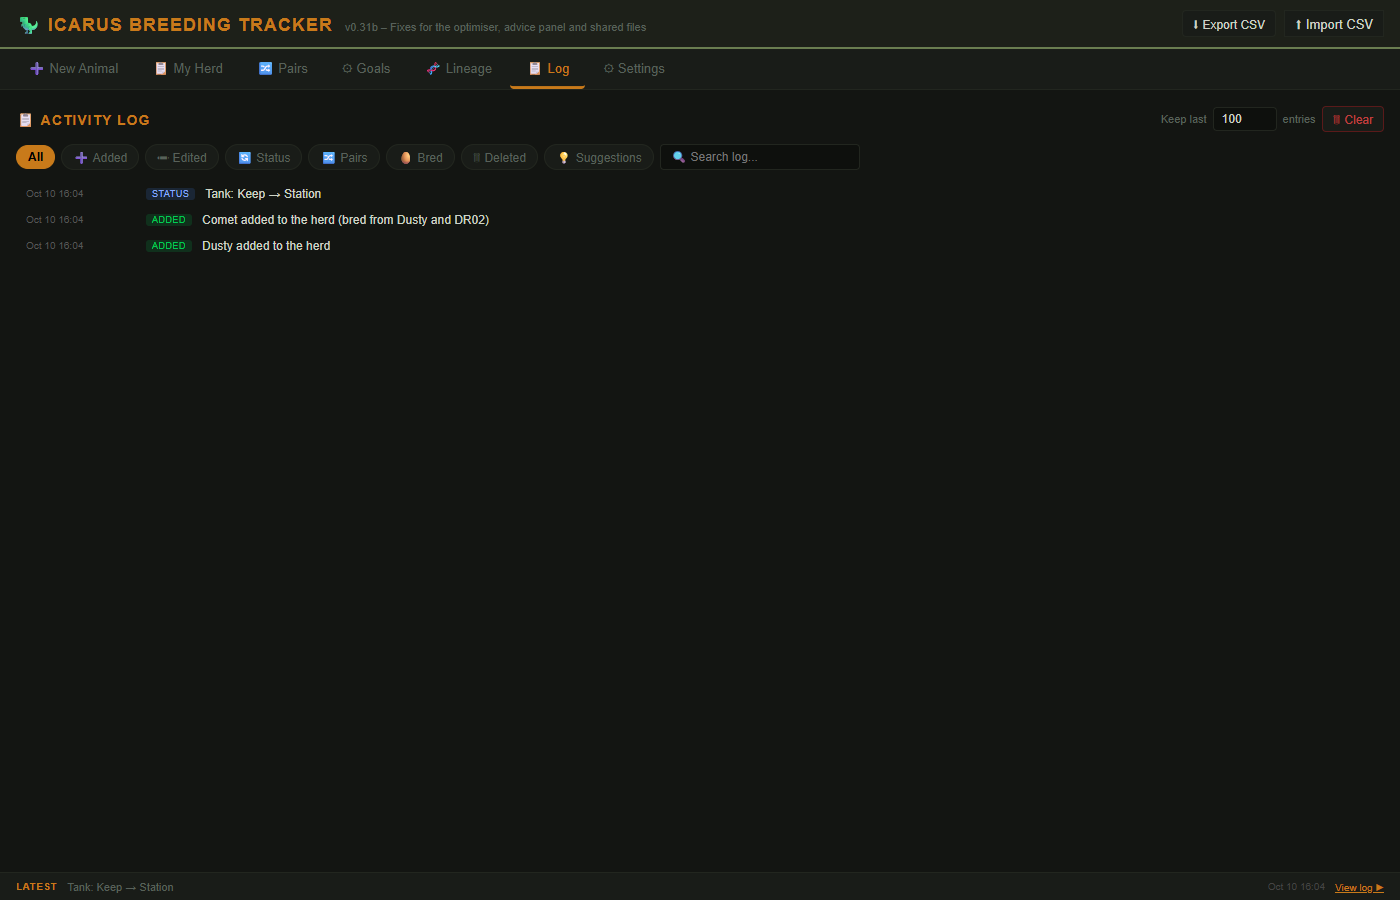
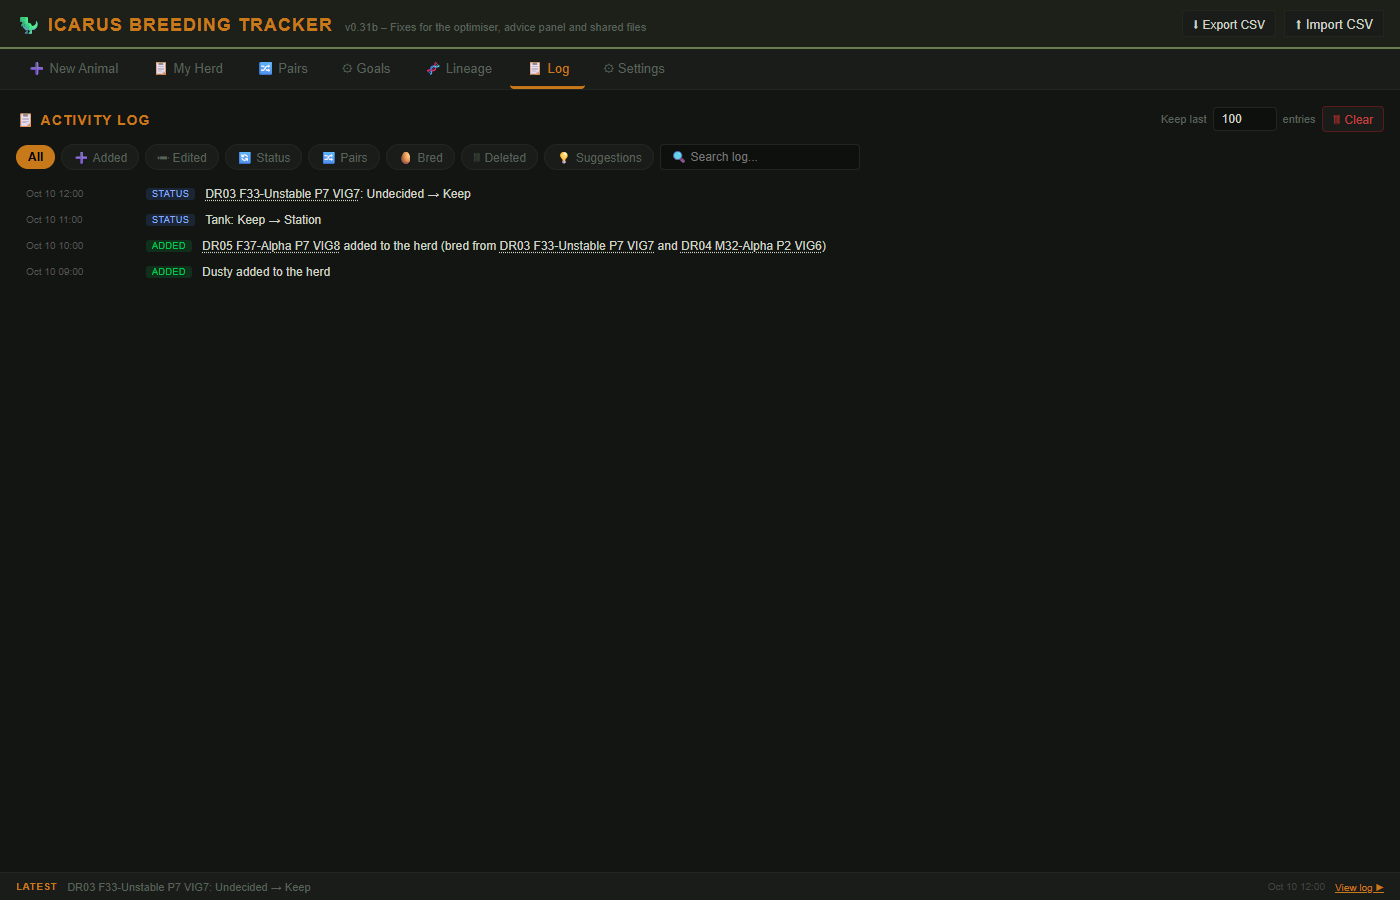
Fix the README claims, restore the dropped smoke check, make the screenshots repeatable
- Restore the "opening a file without a herd list" check that the harness refactor dropped
- README: name format is sex letter then total (F29, not 29F); Lineage offers 2, 3 or 4 generations; pair tiles show ID, bloodline, total and a ✓G mark; glossary uses the app's stat names with the save file's gene names noted; Animal View, ★ favourite, Kiwi row order, what Delete all data clears
- Screenshot generator: fill the form through onStatInput and onParentInput so the radar, parent cards and odds render; freeze Date and the timezone so every run gives identical PNGs; log fixtures use generated names so links show
- CONTRIBUTING: how to regenerate the screenshots, and that fixtures.mjs is the shared synthetic data

Refs #19

Changed region(s): [[0.0921, 0.1867, 0.5836, 0.3111], [0.0614, 0.9644, 0.215, 0.9956], [0.0307, 0.28, 0.0614, 0.3111]]

diff --git a/README.md b/README.md
@@ -19,7 +19,7 @@ A free, open-source herd tracker and breeding planner for the survival game [Ica
 - [Use the web version](#-use-the-web-version)
 - [Two minutes to your first pair](#-two-minutes-to-your-first-pair)
 - [Where your data lives](#-where-your-data-lives)
-- [How to use](#-how-to-use): [New Animal](#new-animal) · [My Herd](#my-herd) · [Animal Viewer](#animal-viewer) · [Breeding Pairs](#breeding-pairs) · [Goals](#goals) · [Lineage](#lineage) · [Log](#log) · [Import from game](#import-from-game) · [Settings](#settings)
+- [How to use](#-how-to-use): [New Animal](#new-animal) · [My Herd](#my-herd) · [Animal View](#animal-view) · [Breeding Pairs](#breeding-pairs) · [Goals](#goals) · [Lineage](#lineage) · [Log](#log) · [Import from game](#import-from-game) · [Settings](#settings)
 - [Glossary](#-glossary)
 - [FAQ and troubleshooting](#-faq-and-troubleshooting)
 - [Status reference](#-status-reference)
@@ -47,7 +47,7 @@ Prefer a local copy for offline use or a specific version? See [alternative inst
 ## 🚀 Two minutes to your first pair
 
 1. **Open the app** in Chrome or Edge. The startup screen asks how to store your data. Click **✨ Start fresh (create new file)**, pick any folder and save as `herd_data.json`. On later visits click **▶ Continue with herd_data.json** and grant permission once.
-2. **Add two animals.** In **➕ New Animal**, pick the species, sex, bloodline and phenotype, type the seven stats you see on the animal in game, and save. The app generates a name such as `DR01 29F-Wild VIG5` and gives the animal an ID. Do this for a male and a female of the same species.
+2. **Add two animals.** In **➕ New Animal**, pick the species, sex, bloodline and phenotype, type the seven stats you see on the animal in game, and save. The app generates a name such as `DR01 F29-Wild VIG5` and gives the animal an ID. Do this for a male and a female of the same species.
 
    ![New Animal, filled in](screenshots/new-animal-filled.png)
 
@@ -81,7 +81,7 @@ If you used the app when it stored data in the browser, click **⬆ Migrate data
 
 ![New Animal form](screenshots/new-animal.png)
 
-Fill in the species, sex, bloodline, phenotype, generation, stats (VIG, FIT, PHY, REF, TGH, ADP, INS) and, if the animal was bred, the parents. The app generates a name automatically in the format `DR01 55F-Bold P3 VIG2` (see the [glossary](#-glossary) for how to read it). Hover over any stat label or column header to see what the stat does.
+Fill in the species, sex, bloodline, phenotype, generation, stats (VIG, FIT, PHY, REF, TGH, ADP, INS) and, if the animal was bred, the parents. The app generates a name automatically in the format `DR01 F55-Bold P3 VIG2` (see the [glossary](#-glossary) for how to read it). Hover over any stat label or column header to see what the stat does.
 
 Below the species the form shows how that species is obtained in game (tamed from a wild juvenile, caught with a Snare Trap and a named bait, bought from the station, or a mission reward) and, for breedable species, which fertility serum to use.
 
@@ -107,9 +107,9 @@ All your animals in a sortable, filterable table:
 - **Search** by name, nickname or ID (for example `DR123` or `wild vig4`); every word must match, and an active search includes Dead and Station animals
 - **Change status inline** with the dropdown in each row
 - **Edit** an animal with the edit button; **Cancel** leaves the form without saving
-- **⭐ Favorite** marks an animal the optimiser must never suggest for culling
+- **★ Favorite** marks an animal the optimiser must never suggest for culling
 - **Nicknames** are shown in bold with the generated name dimmed beside them
-- **Click any row** to open the [Animal Viewer](#animal-viewer)
+- **Click any row** to open the [Animal View](#animal-view)
 - **🪦 Show Dead** and **🛸 Show Station** include those animals in the view; the **Station** and **Dead** status pills show them even when the toggles are off
 - **⚡ Optimize Pairs** opens the pair optimiser for all species (see [Breeding Pairs](#breeding-pairs))
 
@@ -118,11 +118,11 @@ Two badges warn about data that needs attention: **unknown species** on an anima
 </details>
 
 <details>
-<summary id="animal-viewer"><strong>🔍 Animal Viewer</strong></summary>
+<summary id="animal-view"><strong>🔍 Animal View</strong></summary>
 
-![Animal Viewer](screenshots/animal-view.png)
+![Animal View](screenshots/animal-view.png)
 
-Clicking any animal row, tile or name anywhere in the app opens the **Animal Viewer**, a panel that slides in from the right without blocking the rest of the page. It shows:
+Clicking any animal row, tile or name anywhere in the app opens the **Animal View**, a panel that slides in from the right without blocking the rest of the page. It shows:
 
 - **Badge chips** for bloodline (in its colour), phenotype rarity, sex and generation
 - **Radar chart** of all stat values
@@ -153,7 +153,7 @@ Each pair has two **tile slots** styled after the in-game item slots, male ♂ a
 
 When placed in a slot the animal's status becomes **Breed**. When removed, it goes back to **Undecided** unless you had set something else on purpose (Reserve, Station and so on), which is kept.
 
-Each slot shows a goal badge: **✓ Goal N** when the animal matches a species goal, **⚠ bloodline** when it carries a negatively starred trait, or **★★ Bold** when it has a positively starred trait without matching a goal.
+Each tile shows the animal's ID, a bloodline badge and its stat total, plus a small **✓G** mark when the animal matches a species goal. Hover over a tile for the full name.
 
 An **upgrade recommendation** panel below each species card names free animals that would improve the weakest slot, or says **no upgrade**.
 
@@ -193,7 +193,7 @@ Per-species configuration. Each card and each section inside it collapses indepe
 
 ![Lineage tree](screenshots/lineage.png)
 
-Select an animal to see its family tree, 2 to 4 generations deep or the whole tree. Each node shows stats, bloodline, generation and inheritance marks: whether each stat came from the mother or the father, improved beyond both parents or fell below them.
+Select an animal to see its family tree, 2, 3 or 4 generations deep (the depth dropdown offers those three, 3 by default). Each node shows stats, bloodline, generation and inheritance marks: whether each stat came from the mother or the father, improved beyond both parents or fell below them.
 
 The sidebar shows species insights: average stat gain per breeding, the best performing stat, and the average change of every stat against the parents' average.
 
@@ -248,7 +248,7 @@ Good to know:
 - **Export CSV** writes the herd as a spreadsheet file; **Import CSV** restores or bulk-adds animals. Importing your own export again adds nothing. Rows with an unknown species or bloodline are ignored and counted
 - **Import from game**, see above
 - **Share your herd** renders an image of your animals (top 10 overall, the best of each species, or all active animals) and copies it to the clipboard, with a download button as fallback
-- **Delete all data** clears the herd and pairs after a confirmation. Export a CSV first
+- **Delete all data** clears the herd and the pair slots after a confirmation. Goals, pair counts, the log and your other settings are kept. Export a CSV first
 - Links to report a bug, request a feature or view all issues on GitHub
 
 </details>
@@ -259,14 +259,14 @@ Good to know:
 
 | Term | Meaning |
 |---|---|
-| **Stats** | The seven genetic values of an animal, 0 to 10 each: VIG (Vitality), FIT (Endurance), PHY (Muscle), REF (Agility), TGH (Toughness), ADP (Hardiness), INS (Utility). In game they are called by the names in brackets. |
+| **Stats** | The seven genetic values of an animal, 0 to 10 each: VIG (Vigor), FIT (Fitness), PHY (Physique), REF (Reflex), TGH (Toughness), ADP (Adaptation), INS (Instinct). These are the names the app uses in its tooltips. The save file stores them as Vitality, Endurance, Muscle, Agility, Toughness, Hardiness and Utility, in the same order. |
 | **Total** | The sum of the six stats that are not the breed-out stat, out of 60. The percentage in My Herd is total over the species maximum. |
 | **Breed-out stat** | The one stat per species you want at 0, so it is left out of the total and the name. Default VIG; set per species in Goals. |
 | **Bloodline** | One of the game's twelve lineages (Wild, Brave, Careful, Timid, Bold, Hardy, Stout, Ambitious, Resolute, Unstable, Savage, Alpha). Each gives fixed and growing modifiers; Unstable raises the mutation chance when breeding. |
 | **Phenotype** | The coat variant: base (P0) and up to seven numbered variants per species, with rarities from the game data (base, uncommon, rare, legendary). |
 | **Generation** | 1 for tamed animals, one more than the highest parent for bred ones. |
 | **Status** | What you plan to do with the animal; see the [status reference](#-status-reference). |
-| **Generated name** | `DR01 55F-Bold P3 VIG2` means: Dune Raptor number 1, total 55, female, bloodline Bold, phenotype P3, breed-out stat VIG at 2. The ID (`DR01`) is how you refer to the animal as a parent. |
+| **Generated name** | `DR01 F55-Bold P3 VIG2` means: Dune Raptor number 1, female, total 55, bloodline Bold, phenotype P3, breed-out stat VIG at 2. The ID (`DR01`) is how you refer to the animal as a parent. |
 | **Nickname** | A display alias. Names imported from the game land here. |
 | **Pair slot** | One male and one female you are breeding together. The number of slots per species is yours to set. |
 
@@ -329,12 +329,12 @@ All 26 species the tracker knows, with how the first animals are obtained and wh
 | SZ | Shaggy Zebra | Mount | Wild juvenile | Not breedable |
 | GB | Gribbler | Attack Pet | Snare: Gribbler Bait (Tundra) | Gribber Fertility Serum (the game's spelling) |
 | HY | Hyena | Attack Pet | Snare: Hyena Bait (Desert, Volcanic) | Not breedable |
-| KW | Kiwi | Attack Pet | Snare: Kiwi Bait (Forest, Grassland, Arctic, at night) | Not breedable |
 | SK | Skulk | Attack Pet | Snare: Skulk Bait (Tundra, Arctic) | Not breedable |
 | SW | Snow Wolf | Attack Pet | Snare: Wolf Bait (Arctic) | Wolf Fertility Serum |
 | WB | Wild Boar | Attack Pet | Snare: Wild Boar Bait (Forest, Grassland) | Boar Fertility Serum |
 | WO | Forest Wolf | Attack Pet | Snare: Wolf Bait (Forest, Grassland) | Wolf Fertility Serum |
 | SC | Storca | Attack Pet | Snare: Storca Bait (Tundra, Arctic) | Not breedable |
+| KW | Kiwi | Attack Pet | Snare: Kiwi Bait (Forest, Grassland, Arctic, at night) | Not breedable |
 | CT | Cattle (Cow / Bull) | Utility Pet | Station | Bull Fertility Serum |
 | CK | Chicken (Rooster) | Utility Pet | Station | Rooster Fertility Serum |
 | SH | Sheep (Ram) | Utility Pet | Station | Ram Fertility Serum |

diff --git a/CONTRIBUTING.md b/CONTRIBUTING.md
@@ -53,6 +53,10 @@ A new species also needs an `<option>` in the New Animal form, an icon in `_SP_I
 
 New features and bug fixes should add a check. For a bug fix, the check should fail on the version before the fix.
 
+`tools/screenshots.mjs` regenerates the README screenshots. Run `node tools/screenshots.mjs` from the repository root: it seeds a synthetic herd, captures each view and overwrites the PNGs in `screenshots/`. It has the same requirements as the smoke test. Run it when a change alters a view shown in the README, look through the images, and commit them in the same pull request as the README.
+
+Both tools use `tools/browser.mjs` for the browser and `tools/fixtures.mjs` as the shared source of synthetic data. Never use a real herd or save file in tests or screenshots.
+
 ## Pull requests
 
 - One topic per pull request, branched from `main`.
